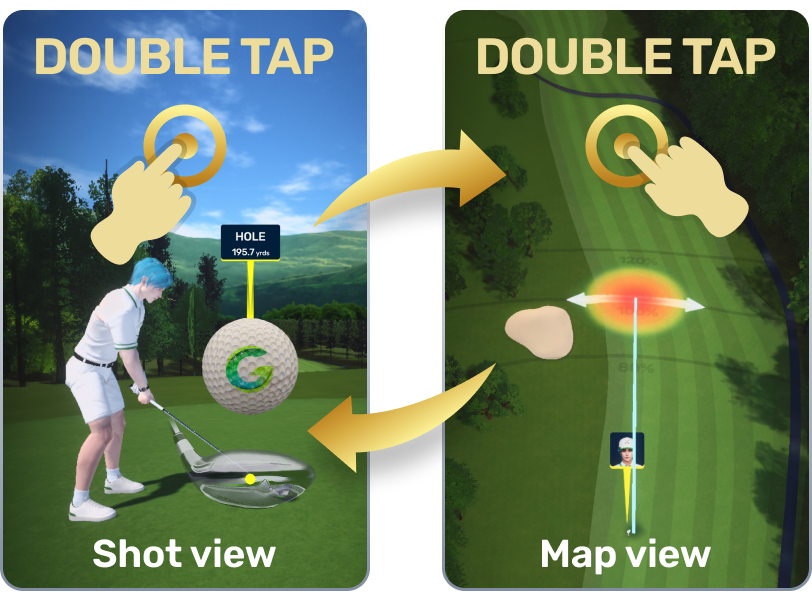
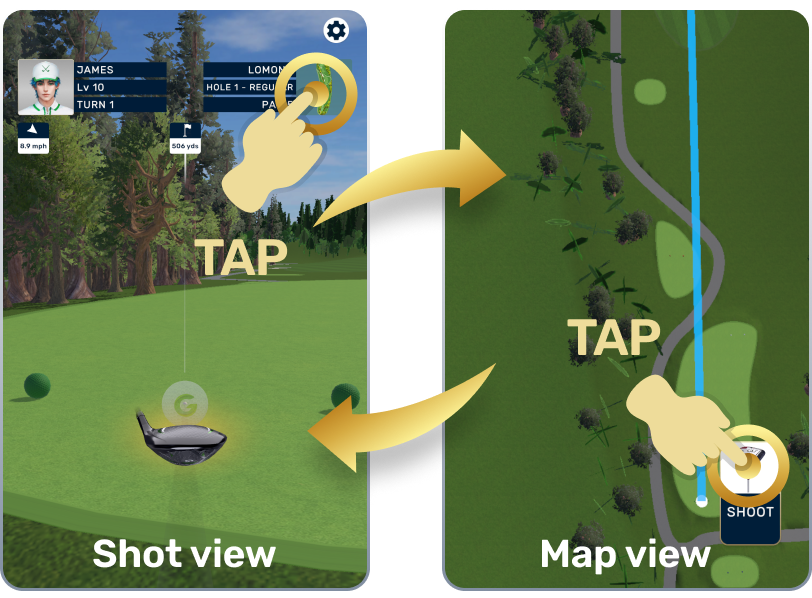
feat(loading): reword map/club pro tips, drop leaderboard tip
- TIP_VIEW: "TAP THE MAP TO SWITCH BETWEEN SHOT VIEW AND MAP VIEW"
  (was "DOUBLE TAP..."; also fixes the missing space after </color>)
- TIP_CLUB: "HOLD THE CLUB/BALL BUTTONS TO CHANGE EQUIPPED GEAR"
  (was "HOLD THE CLUB BALL BUTTON TO ENTER YOUR BAGS IN-GAME")
- TIP_LEADERBOARD removed entirely: CSV row, baked table row, ProTipCard
  tipKeys entry, and its index-paired tipSprites slot. ProTipCard matches
  tipKeys[i] to tipSprites[i] by index, so both arrays had to shrink
  together or every tip after index 5 would show the wrong image.
- ProTipCard inspector default keys were stale lowercase names that match
  no CSV key; corrected to the 7 real uppercase keys so a freshly added
  card cannot render raw keys or resurrect the leaderboard tip.
- Tip Club.png / Tip View.png: matching art for the two reworded tips.

Yellow highlight uses the existing #EEDC9A. JA strings updated to match.
Verified in play mode at 1170x2532: both tips render correctly and the
7-tip rotation wraps cleanly with no leaderboard entry.

diff --git a/Assets/Scripts/UI/ProTipCard.cs b/Assets/Scripts/UI/ProTipCard.cs
@@ -26,8 +26,8 @@ public class ProTipCard : MonoBehaviour, IPointerClickHandler
     [SerializeField]
     private string[] tipKeys = new string[]
     {
-        "tip_club", "tip_forecast", "tip_rarities", "tip_swing",
-        "tip_accuracy", "tip_leaderboard", "tip_timing", "tip_view"
+        "TIP_SWING", "TIP_CLUB", "TIP_FORECAST", "TIP_RARITIES",
+        "TIP_ACCURACY", "TIP_TIMING", "TIP_VIEW"
     };
 
     [Header("Settings")]
